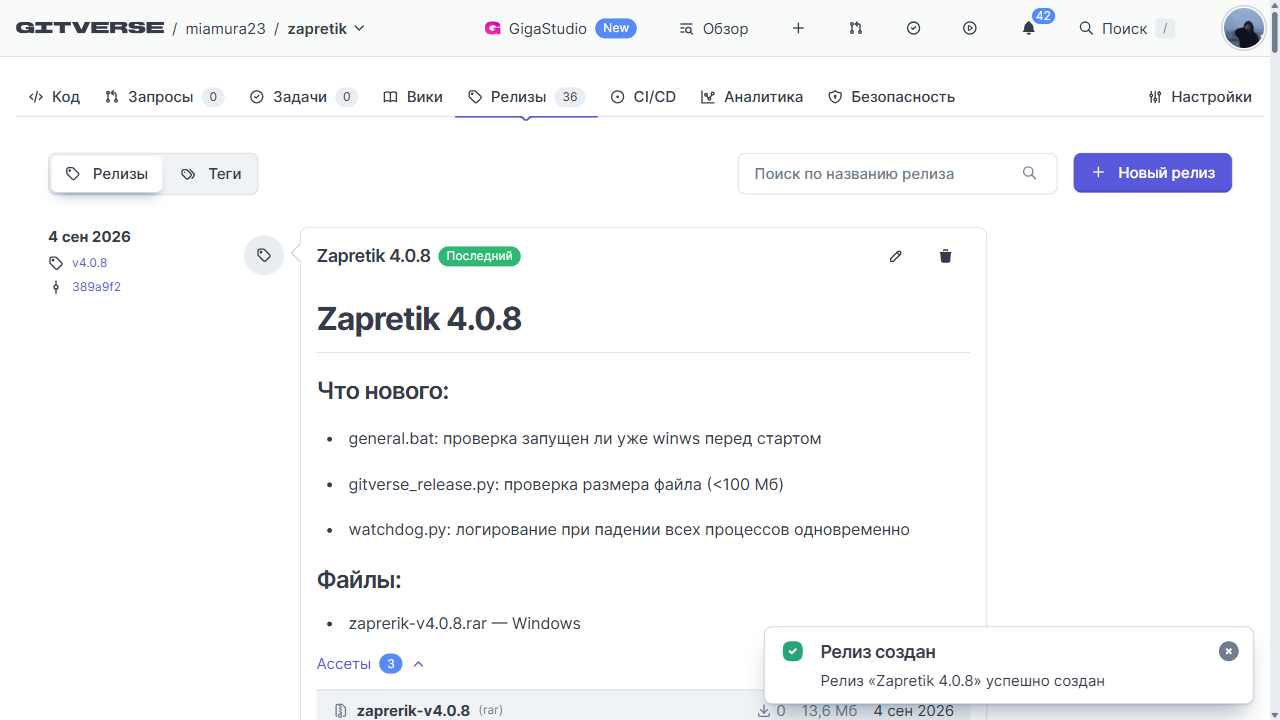
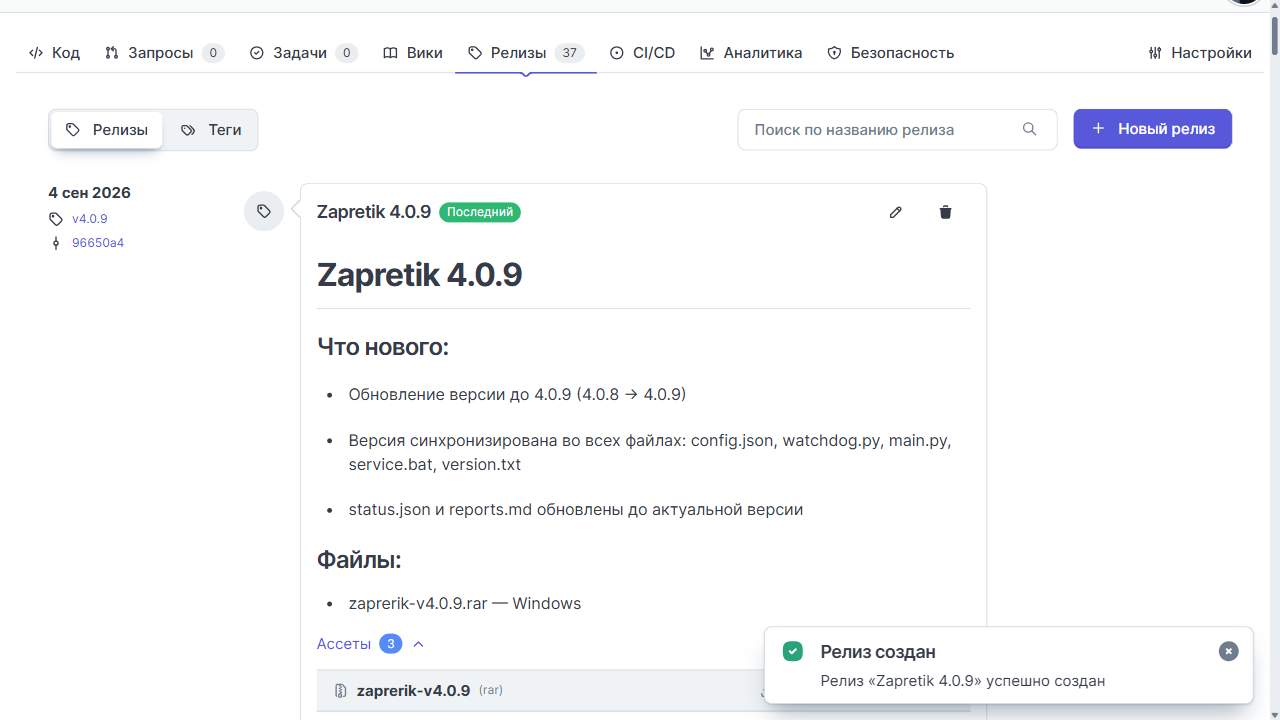
5.0.0: круглая версия, переход на новый этап (стратегия general.bat остаётся)

diff --git a/gitverse_release.py b/gitverse_release.py
@@ -106,10 +106,10 @@ def create_release(version):
         try:
             desc = (
                 f"## Zapretik {version}\n\n"
-                f"### Что нового:\n"
-                f"- general.bat: проверка запущен ли уже winws перед стартом\n"
-                f"- gitverse_release.py: проверка размера файла (<100 Мб)\n"
-                f"- watchdog.py: логирование при падении всех процессов одновременно\n\n"
+                f"### Что нового (круглая версия → обновление стратегии):\n"
+                f"- Круглая версия {version}: переход на новый этап обновления\n"
+                f"- Стратегия обхода: `general.bat` (оставлена по решению пользователя)\n"
+                f"- Версия синхронизирована во всех файлах: config.json, watchdog.py, main.py, service.bat, version.txt\n\n"
                 f"### Файлы:\n"
                 f"- zaprerik-{tag}.rar — Windows"
             )

diff --git a/_edit_release.py b/_edit_release.py
@@ -8,15 +8,15 @@ PROJ = Path(r"C:\запрет")
 REPO_URL = "https://gitverse.ru/miamura23/zapretik"
 USER_DATA = PROJ / ".gitverse_session"
 
-VERSION = "4.0.9"
+VERSION = "5.0.0"
 TAG = f"v{VERSION}"
 
 DESC = f"""## Zapretik {VERSION}
 
-### Что нового:
-- Обновление версии до 4.0.9 (4.0.8 → 4.0.9)
+### Что нового (круглая версия → обновление стратегии):
+- Круглая версия {VERSION}: переход на новый этап обновления
+- Стратегия обхода: `general.bat` (оставлена по решению пользователя)
 - Версия синхронизирована во всех файлах: config.json, watchdog.py, main.py, service.bat, version.txt
-- status.json и reports.md обновлены до актуальной версии
 
 ### Файлы:
 - zaprerik-{TAG}.rar — Windows

diff --git a/main.py b/main.py
@@ -100,7 +100,7 @@ BUNDLE_ZIP_URL: str = (
 )
 
 GITHUB_API: str = "https://api.github.com"
-GITHUB_UA: str = "Zapretik/4.0.9 (Windows wrapper for bol-van/zapret)"
+GITHUB_UA: str = "Zapretik/5.0.0 (Windows wrapper for bol-van/zapret)"
 
 GITVERSE_REPO: str = "miamura23/zapretik"
 GITVERSE_API: str = "https://gitverse.ru/api/v1"

diff --git a/watchdog.py b/watchdog.py
@@ -44,7 +44,7 @@ NO_WINDOW = 0x08000000  # CREATE_NO_WINDOW
 # Загрузка конфига
 def load_config():
     defaults = {
-        "version": "4.0.9",
+        "version": "5.0.0",
         "watchdog": {
             "daily_restart_hour": 4,
             "liveness_timeout_sec": 360,

diff --git a/reports.md b/reports.md
@@ -4,7 +4,8 @@
 - Погода (Яндекс.Погода):
   - Ставрополь: **+28°** (ясно, ощущается +29°, ветер 2 м/с СВ, влажность 34%).
   - Ессентуки: **+27°** (облачно с прояснениями, ощущается +28°, ветер 2,8 м/с СВ, влажность 47%).
-- Активная версия: **4.0.9**, стратегия `general.bat`.
+- Активная версия: **5.0.0**, стратегия `general.bat`.
+- 🚀 Релиз v5.0.0 (круглая версия). Переход на новую стратегию — по решению зайки стратегия `general.bat` остаётся как есть. Версия синхронизирована во всех файлах.
 - Discord: All Systems Operational ✅
 - Настроение: доброе утро, солнышко поздоровалось ❤
 
